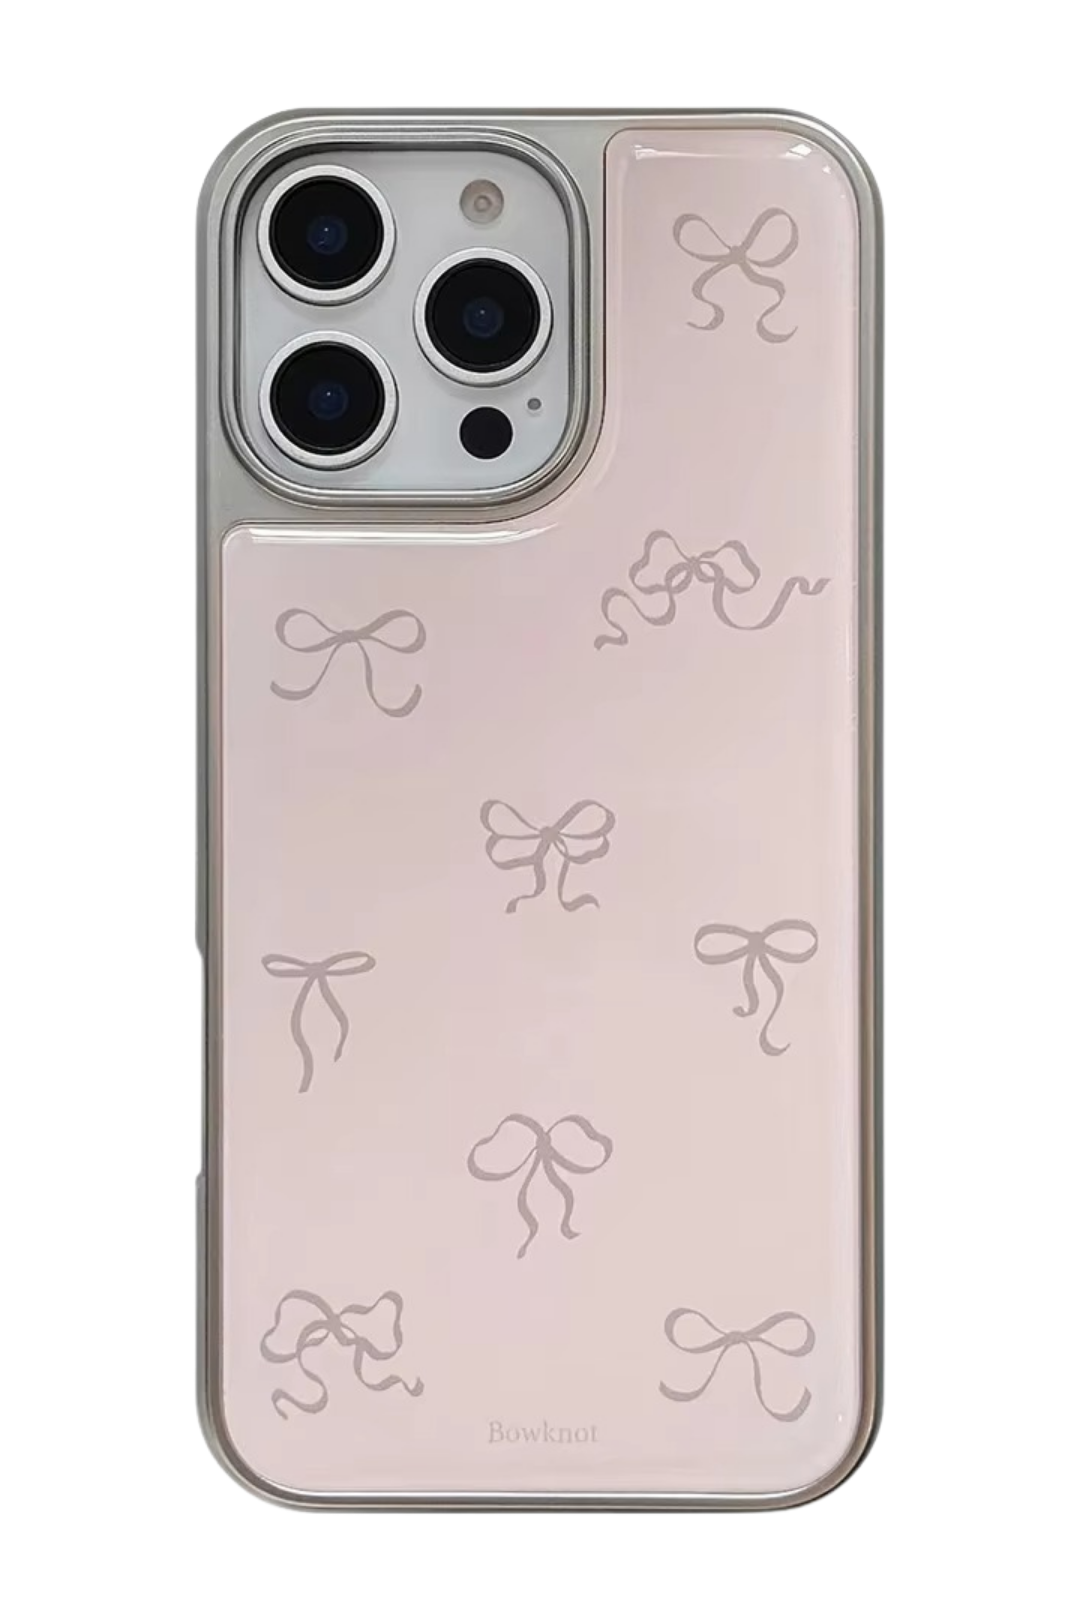
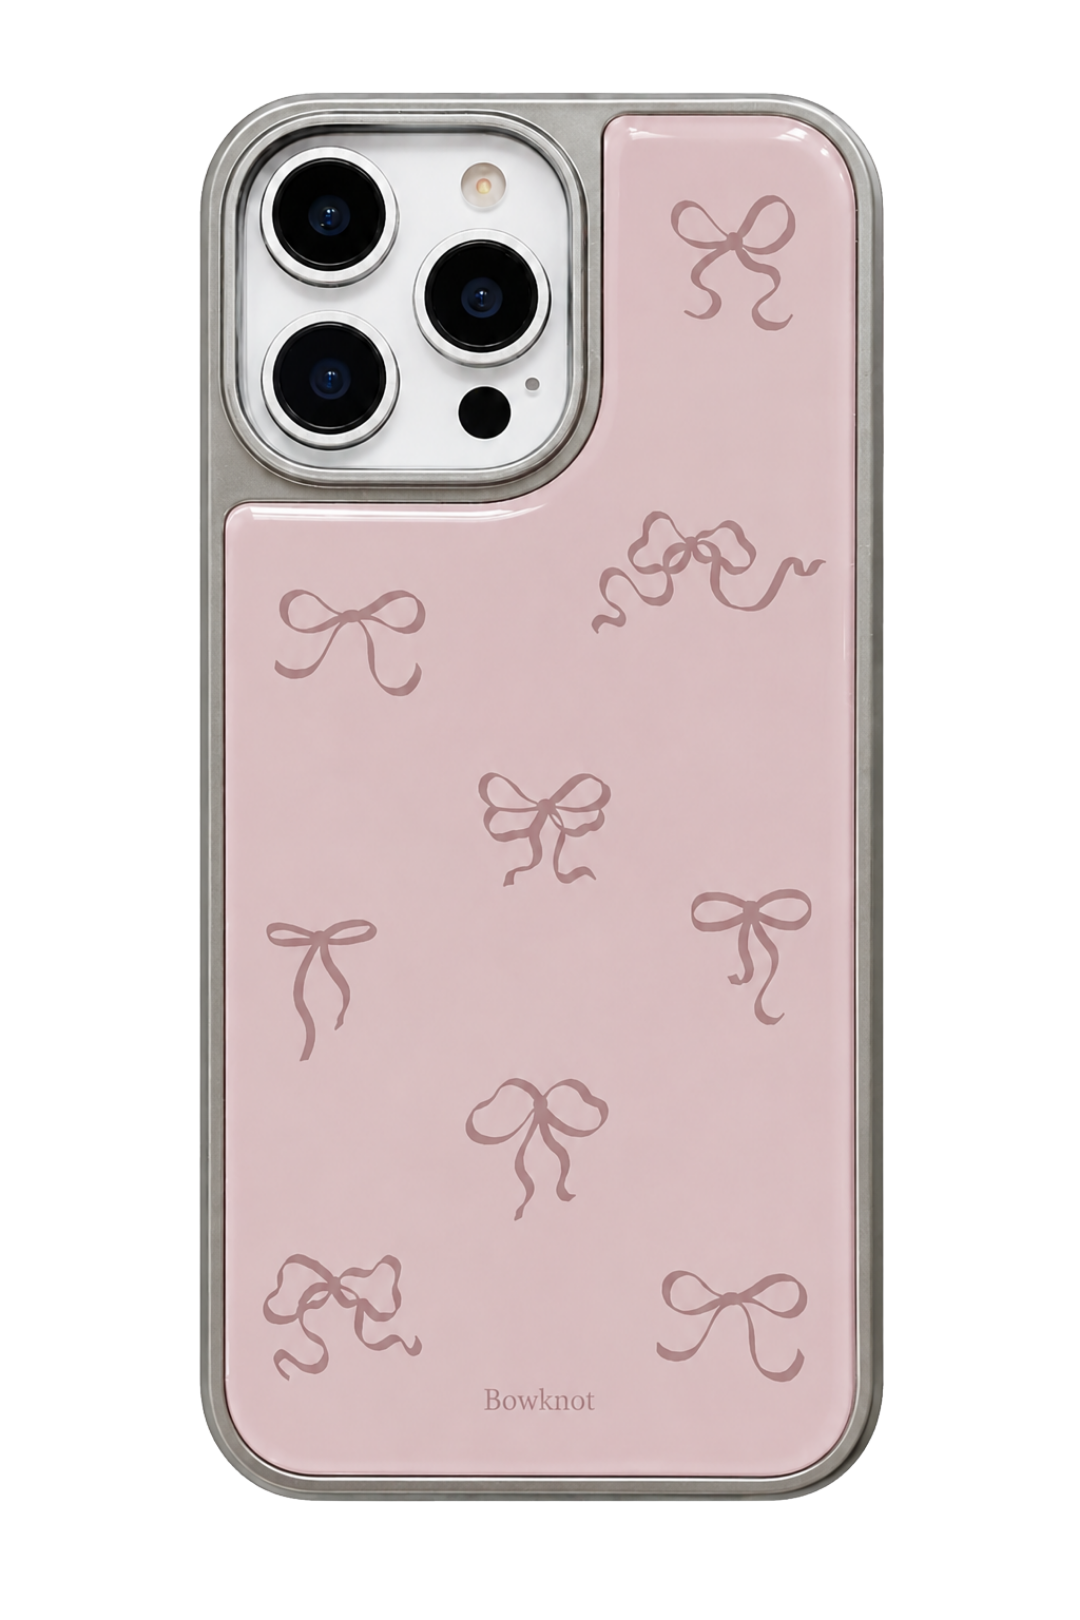
Update cheers images and shift value prop text on mobile

diff --git a/app/page.tsx b/app/page.tsx
@@ -1271,10 +1271,10 @@ export default function Home() {
         <section className="cheers" id="benefits">
           <div className="cheers-stage">
             <div className="cheers-case left">
-              <Image src="/cheers-new-1.png" alt="Hand holding new case 1" width={420} height={630} />
+              <Image src="/cheers-v3-1.png" alt="Hand holding new case 1" width={420} height={630} />
             </div>
             <div className="cheers-case right">
-              <Image src="/cheers-new-2.png" alt="Hand holding new case 2" width={420} height={630} />
+              <Image src="/cheers-v3-2.png" alt="Hand holding new case 2" width={420} height={630} />
             </div>
           </div>
         </section>

diff --git a/app/globals.css b/app/globals.css
@@ -850,6 +850,12 @@ input:focus-visible {
   text-align: center;
 }
 
+@media (max-width: 768px) {
+  .vp-inner {
+    transform: translateY(-80px);
+  }
+}
+
 .vp-text {
   font-family: var(--font-dm-sans), sans-serif;
   font-weight: 500;
